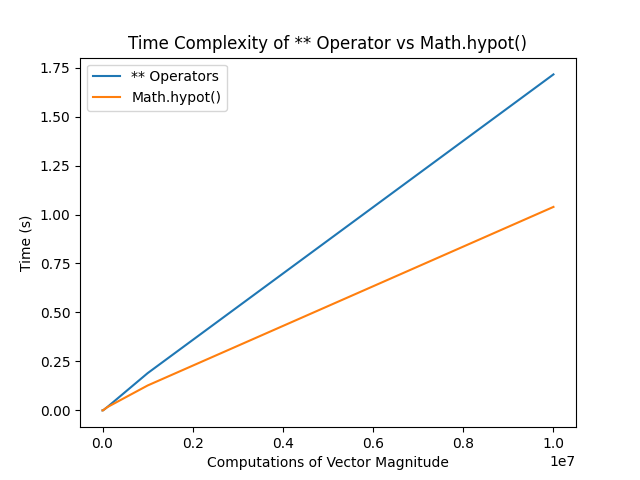
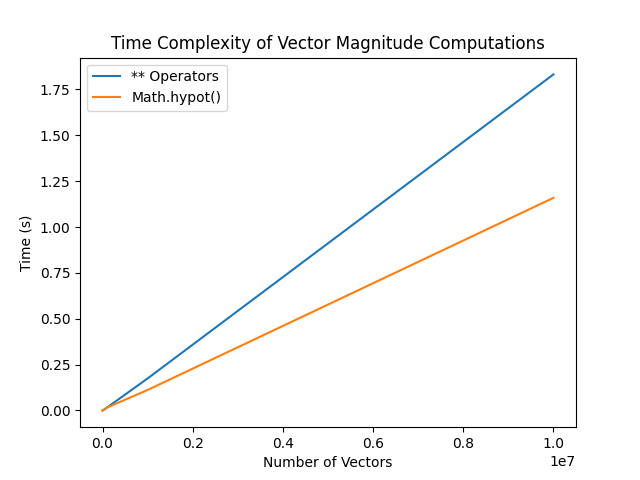
Add files via upload

diff --git a/lectures/Part 1 - Python Programming/libraries.py b/lectures/Part 1 - Python Programming/libraries.py
@@ -49,8 +49,8 @@ for N in N_posns:
 
 
 plt.figure()
-plt.title("Time Complexity of ** Operator vs Math.hypot()")
-plt.xlabel("Computations of Vector Magnitude")
+plt.title("Time Complexity of Vector Magnitude Computations")
+plt.xlabel("Number of Vectors")
 plt.ylabel("Time (s)")
 plt.plot(N_posns, T_with_power_operators, label="** Operators")
 plt.plot(N_posns, T_with_hypot, label="Math.hypot()")
